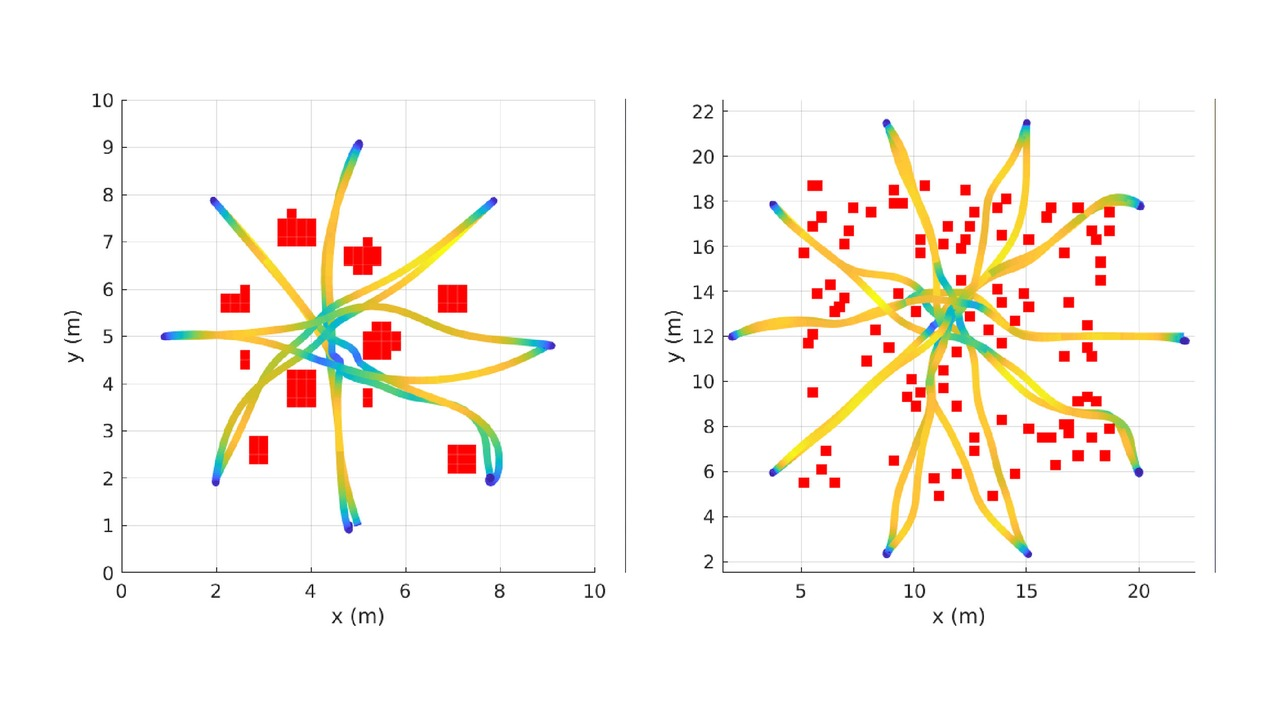
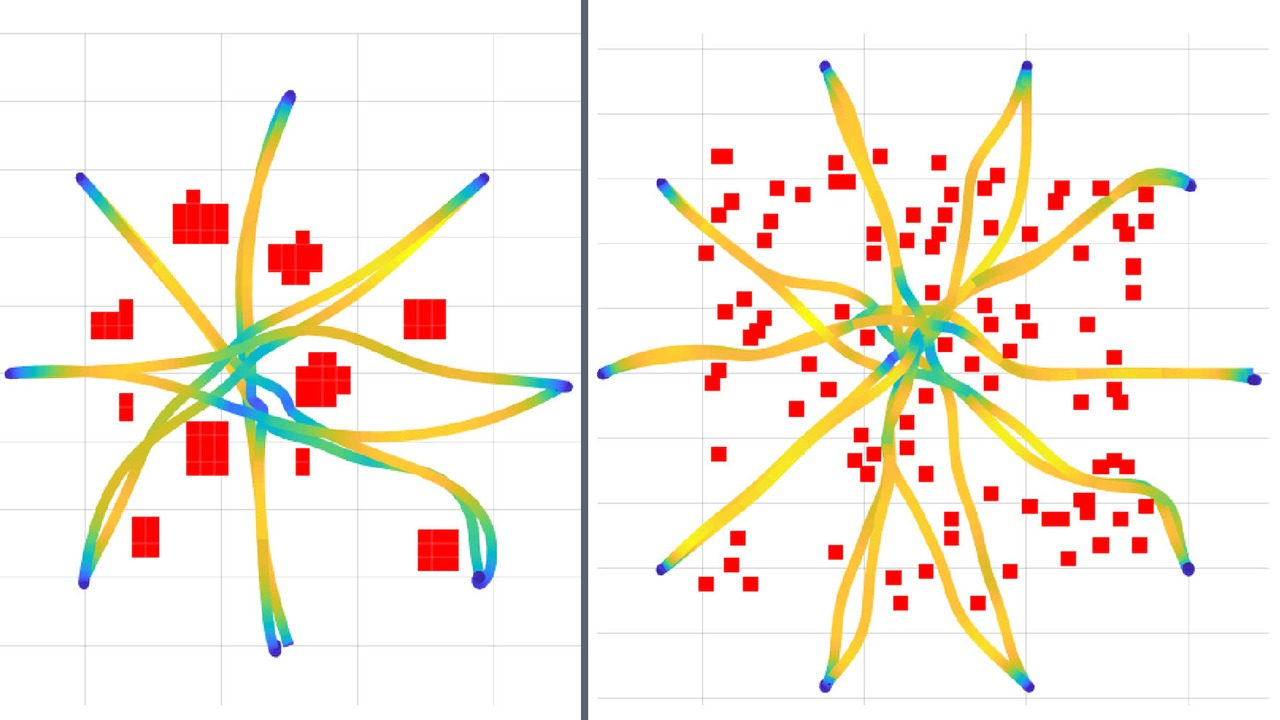
RA-L 2022 picture zoomed on the trajectories; "Prof. Dario Floreano"
- The trajectories of Fig. 5b and 5c, cropped inside the axes (no ticks
  or labels), each filling its half, separated by a slate line.
- Bio: "with Prof. Dario Floreano".

Changed region(s): [[0.0, 0.0, 1.0, 1.0], [0.0625, 0.1833, 0.0938, 0.2139], [0.0625, 0.1222, 0.0938, 0.1528]]

diff --git a/index.html b/index.html
@@ -81,7 +81,7 @@
       <img src="media/portrait.jpg" alt="Charbel Toumieh" width="900" height="900">
     </figure>
 
-    <p class="bio">Researcher in real-time model predictive control and trajectory optimisation for agile aerial robots, from quadrotor swarms to bird-scale flapping-wing drones and from theory to real-world flight. Postdoctoral fellow and scientist at the <a href="https://www.epfl.ch/labs/lis/">Laboratory of Intelligent Systems</a>, EPFL, with Dario Floreano, and principal investigator of an Armasuisse project on vision-based aerial swarms.</p>
+    <p class="bio">Researcher in real-time model predictive control and trajectory optimisation for agile aerial robots, from quadrotor swarms to bird-scale flapping-wing drones and from theory to real-world flight. Postdoctoral fellow and scientist at the <a href="https://www.epfl.ch/labs/lis/">Laboratory of Intelligent Systems</a>, EPFL, with Prof. Dario Floreano, and principal investigator of an Armasuisse project on vision-based aerial swarms.</p>
 
     <!-- Icons: Bootstrap Icons (MIT licence, © 2019–2024 The Bootstrap Authors); Google Scholar from Simple Icons (CC0). -->
     <ul class="links">

diff --git a/README.md b/README.md
@@ -43,7 +43,7 @@ Save the files under the names already written in `index.html` and they appear; 
 
 Until a paper's picture exists, its frame shows the venue (for example "ICRA 2026") on a light grid; on phones, such frames are left out. Without a clip, the picture simply stays still.
 
-In place now: `swarmnxt-flights` (aerial swarms: the six-drone panel of the overview GIF in `swarm-nxt`, which is a collage, then its obstacle panel, back to back), `ral26-xfly` (flapping-wing flight: one lap of Track 1 from the flight video https://youtu.be/pVb3DoUntWI, linked from `lis-epfl/xfly_stack`), `swarmnxt-pillars` (SwarmNxt paper: the obstacle panel alone), `ral26-gate` (XFly paper, photo), `ral22-time-aware` (RA-L 2022: Fig. 5b and 5c of the paper side by side, 8 agents in the small environment and 10 in the big one, whole, without the colour bars), `jirs22-corridors` (JIRS 2022: the two views of Fig. 4d of the paper, whole, side by side) and `tro24-forest-wall` (T-RO 2024: the forest / wall / forest GIF, `imgs/linear.gif` in `multi_agent_pkgs`). `swarmnxt-six-drones` is the six-drone panel alone, the first half of `swarmnxt-flights`. Not used at the moment: `swarmnxt-obstacles` (photo of the SwarmNxt drones between pillars), `tro24-circular` (circular exchange, `imgs/circular.gif`) and `tro24-crazyflie` (Crazyflie flights); to show one, put its name in a `<video>`.
+In place now: `swarmnxt-flights` (aerial swarms: the six-drone panel of the overview GIF in `swarm-nxt`, which is a collage, then its obstacle panel, back to back), `ral26-xfly` (flapping-wing flight: one lap of Track 1 from the flight video https://youtu.be/pVb3DoUntWI, linked from `lis-epfl/xfly_stack`), `swarmnxt-pillars` (SwarmNxt paper: the obstacle panel alone), `ral26-gate` (XFly paper, photo), `ral22-time-aware` (RA-L 2022: the trajectories of Fig. 5b and 5c of the paper, 8 agents in the small environment and 10 in the big one, cropped inside the axes and separated by a slate line), `jirs22-corridors` (JIRS 2022: the two views of Fig. 4d of the paper, whole, side by side) and `tro24-forest-wall` (T-RO 2024: the forest / wall / forest GIF, `imgs/linear.gif` in `multi_agent_pkgs`). `swarmnxt-six-drones` is the six-drone panel alone, the first half of `swarmnxt-flights`. Not used at the moment: `swarmnxt-obstacles` (photo of the SwarmNxt drones between pillars), `tro24-circular` (circular exchange, `imgs/circular.gif`) and `tro24-crazyflie` (Crazyflie flights); to show one, put its name in a `<video>`.
 
 ## Making clips: MP4, not GIF
 
